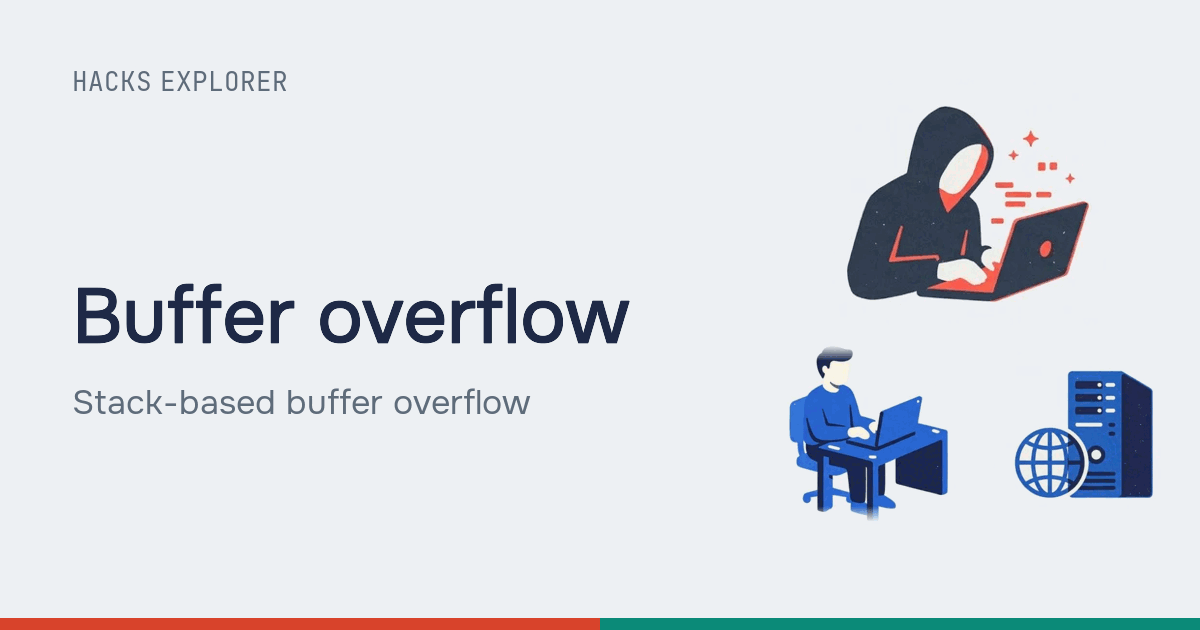
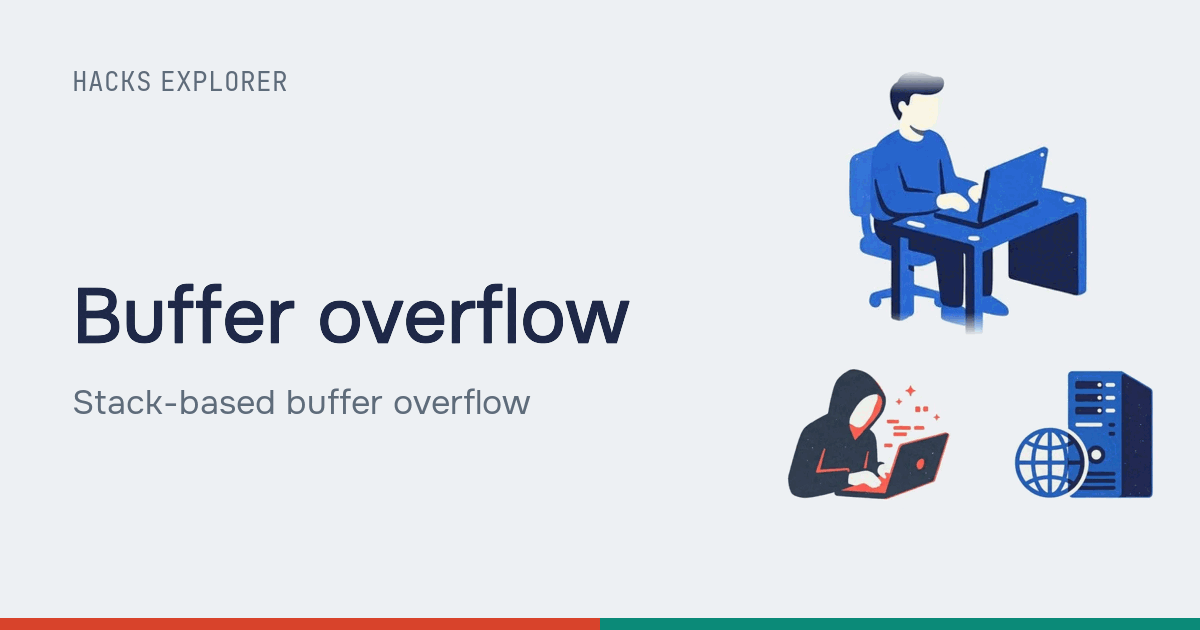
WIP 2: layout fixes

Changed region(s): [[0.7092, 0.1206, 0.925, 0.5429], [0.6475, 0.5429, 0.8017, 0.8444]]

diff --git a/content/lessons/G7/en.md b/content/lessons/G7/en.md
@@ -25,20 +25,18 @@
 - `user` **Customer** — 192.0.2.24
 - `isp` **Provider** — AS64500 · `icon:router` · `term:autonomous-system`
 - `attacker` **Rogue network** — AS64511 · `term:attacker`
-- `bank` **Bank** — AS64496, 198.51.100.0/24 · `icon:server`
+- `bank` **Bank** — AS64496 · `icon:server`
 
 ## Zones
 
-- `home` Provider network: `user`, `isp`
-- `evil` Attacker's network: `attacker` · `danger`
-- `owner` Bank network: `bank`
+- `evil` Fake: `attacker` · `danger`
 
 ## Steps
 
 ### `announce` "These addresses are mine"
 
 `bank → isp` · `legit`
-Message: 198.51.100.0/24 at AS64496 · Result: route stored
+Message: /24 at AS64496 · Result: route stored
 
 ```text
 BGP UPDATE
@@ -68,7 +66,7 @@ announces: RFC 4272 names this as one of the protocol's fundamental weaknesses.
 ### `hijack` "No, they're mine, and more precisely"
 
 `attacker → isp` · `attack` · `without-defence`
-Message: 198.51.100.0/25 at AS64511 · Result: accepted, it is more specific
+Message: /25 at AS64511 · Result: accepted, it is more specific
 
 ```text
 BGP UPDATE
@@ -95,7 +93,7 @@ network announces someone else's addresses because of a misconfiguration rather 
 ### `rov` RPKI check
 
 `attacker → isp` · `attack` · `with-defence` · `stopped`
-Message: 198.51.100.0/25 at AS64511 · Result: RPKI: Invalid, announcement dropped
+Message: /25 at AS64511 · Result: RPKI: Invalid, announcement dropped
 
 ```text
 bank's ROA:    198.51.100.0/24, max length 24, AS64496 only
@@ -126,7 +124,7 @@ number, and the check will let it through.
 ### `request` The customer's packet
 
 `user → isp` · `legit`
-Message: packet to 198.51.100.10 · Result: looking up a route
+Message: packet to the bank · Result: looking up a route
 
 ```text
 to:  198.51.100.10  (bank.example)
@@ -171,7 +169,7 @@ configured nothing and did nothing wrong.
 ### `blackhole` Read or dropped
 
 `attacker → attacker` · `attack` · `without-defence`
-Message: the bank's traffic at the rogue network · Result: intercepted
+Message: the bank's traffic · Result: intercepted
 
 #### Simple
 

diff --git a/content/lessons/H1/ru.md b/content/lessons/H1/ru.md
@@ -20,14 +20,14 @@
 
 ## Участники
 
-- `attacker` **Атакующий** — 203.0.113.66 · `term:attacker`
 - `user` **Посетитель** — 192.0.2.24
-- `server` **Сервер** — программа на C · `term:vulnerability`
-- `stack` **Стек** — память функции · `icon:document` · `term:buffer-overflow`
+- `attacker` **Атакующий** — 203.0.113.66 · `term:attacker`
+- `server` **Сервер** — код на C · `term:vulnerability`
+- `stack` **Стек** — память · `icon:document` · `term:buffer-overflow`
 
 ## Зоны
 
-- `internet` Интернет: `attacker`, `user`
+- `internet` Интернет: `user`, `attacker`
 - `host` Сервер 198.51.100.10: `server`, `stack`
 
 ## Шаги
@@ -57,7 +57,7 @@
 ### `frame` Место в памяти
 
 `server → stack` · `legit`
-Сообщение: имя в буфер на 64 байта · Итог: влезает
+Сообщение: Анна в буфер · Итог: влезает
 
 ```text
 [ буфер name: 64 байта ][ служебное ][ адрес возврата ]
@@ -105,7 +105,7 @@
 ### `smash` Запись за край
 
 `server → stack` · `attack` · `without-defence`
-Сообщение: 300 байт в ячейку на 64 · Итог: адрес возврата затёрт
+Сообщение: 300 байт в 64 · Итог: адрес возврата затёрт
 
 ```c
 char name[64];
@@ -130,7 +130,7 @@ strcpy(name, input);   /* ⟦длина не проверяется⟧ */
 ### `jump` Возврат не туда
 
 `stack → server` · `attack` · `without-defence`
-Сообщение: адрес возврата от атакующего · Итог: процессор идёт в чужой код
+Сообщение: чужой адрес · Итог: процессор идёт в чужой код
 
 #### Просто
 

diff --git a/content/lessons/H3/ru.md b/content/lessons/H3/ru.md
@@ -21,22 +21,22 @@
 
 ## Участники
 
-- `log` **Журнал** — тревоги шлюза · `term:logging`
-- `pc` **Компьютер** — сотрудник, 192.0.2.24 · `icon:workstation` · `term:trojan`
-- `gw` **Шлюз** — выход в интернет · `icon:router` · `term:egress-filtering`
-- `c2` **Сервер хакера** — updates-cdn.example · `icon:attacker` · `term:c2`
+- `log` **Журнал** — тревоги · `term:logging`
+- `pc` **Компьютер** — 192.0.2.24 · `icon:workstation` · `term:trojan`
+- `gw` **Шлюз** — фильтр · `icon:router` · `term:egress-filtering`
+- `c2` **Сервер хакера** — C2 · `icon:attacker` · `term:c2`
 
 ## Зоны
 
 - `office` Сеть офиса: `log`, `pc`, `gw`
-- `evil` Сеть атакующего: `c2` · `danger`
+- `evil` Интернет: `c2` · `danger`
 
 ## Шаги
 
 ### `trojan` Бесплатная программа
 
 `c2 → pc` · `attack`
-Сообщение: «бесплатный конвертер PDF» · Итог: установлен вместе с трояном
+Сообщение: конвертер PDF · Итог: установлен вместе с трояном
 
 ```text
 pdf-converter-free.exe
@@ -131,7 +131,7 @@ TA0011 «Command and Control». Обычные веб-протоколы для 
 ### `exfil` Документы уходят
 
 `pc → c2` · `attack` · `without-defence`
-Сообщение: архив в запросе POST · Итог: документы у атакующего
+Сообщение: архив через POST · Итог: документы у атакующего
 
 #### Просто
 

diff --git a/content/lessons/H1/en.md b/content/lessons/H1/en.md
@@ -20,14 +20,14 @@
 
 ## Participants
 
-- `attacker` **Attacker** — 203.0.113.66 · `term:attacker`
 - `user` **Visitor** — 192.0.2.24
-- `server` **Server** — a program in C · `term:vulnerability`
-- `stack` **Stack** — the function's memory · `icon:document` · `term:buffer-overflow`
+- `attacker` **Attacker** — 203.0.113.66 · `term:attacker`
+- `server` **Server** — C code · `term:vulnerability`
+- `stack` **Stack** — memory · `icon:document` · `term:buffer-overflow`
 
 ## Zones
 
-- `internet` Internet: `attacker`, `user`
+- `internet` Internet: `user`, `attacker`
 - `host` Server 198.51.100.10: `server`, `stack`
 
 ## Steps
@@ -59,7 +59,7 @@ how many bytes to write, and where, is up to the programmer.
 ### `frame` A place in memory
 
 `server → stack` · `legit`
-Message: name into a 64-byte buffer · Result: it fits
+Message: into buffer · Result: it fits
 
 ```text
 [ buffer name: 64 bytes ][ housekeeping ][ return address ]
@@ -108,7 +108,7 @@ program.
 ### `smash` Writing past the edge
 
 `server → stack` · `attack` · `without-defence`
-Message: 300 bytes into a 64-byte slot · Result: return address overwritten
+Message: 300 bytes into 64 · Result: return address overwritten
 
 ```c
 char name[64];
@@ -135,7 +135,7 @@ function.
 ### `jump` Returning to the wrong place
 
 `stack → server` · `attack` · `without-defence`
-Message: the attacker's return address · Result: the CPU runs foreign code
+Message: a foreign address · Result: the CPU runs foreign code
 
 #### Simple
 

diff --git a/content/lessons/H3/en.md b/content/lessons/H3/en.md
@@ -21,22 +21,22 @@
 
 ## Participants
 
-- `log` **Log** — gateway alerts · `term:logging`
-- `pc` **Computer** — employee, 192.0.2.24 · `icon:workstation` · `term:trojan`
-- `gw` **Gateway** — way out to the internet · `icon:router` · `term:egress-filtering`
-- `c2` **Hacker's server** — updates-cdn.example · `icon:attacker` · `term:c2`
+- `log` **Log** — alerts · `term:logging`
+- `pc` **Computer** — 192.0.2.24 · `icon:workstation` · `term:trojan`
+- `gw` **Gateway** — filter · `icon:router` · `term:egress-filtering`
+- `c2` **Hacker's server** — C2 · `icon:attacker` · `term:c2`
 
 ## Zones
 
 - `office` Office network: `log`, `pc`, `gw`
-- `evil` Attacker's network: `c2` · `danger`
+- `evil` Internet: `c2` · `danger`
 
 ## Steps
 
 ### `trojan` A free program
 
 `c2 → pc` · `attack`
-Message: "free PDF converter" · Result: installed along with a trojan
+Message: PDF converter · Result: installed along with a trojan
 
 ```text
 pdf-converter-free.exe
@@ -132,7 +132,7 @@ trojan picks them up on its next call.
 ### `exfil` The documents leave
 
 `pc → c2` · `attack` · `without-defence`
-Message: an archive in a POST request · Result: the attacker has the documents
+Message: archive via POST · Result: the attacker has the documents
 
 #### Simple
 
